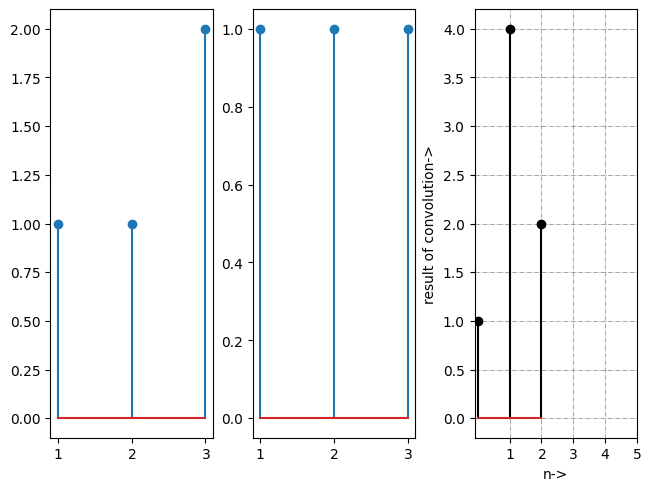
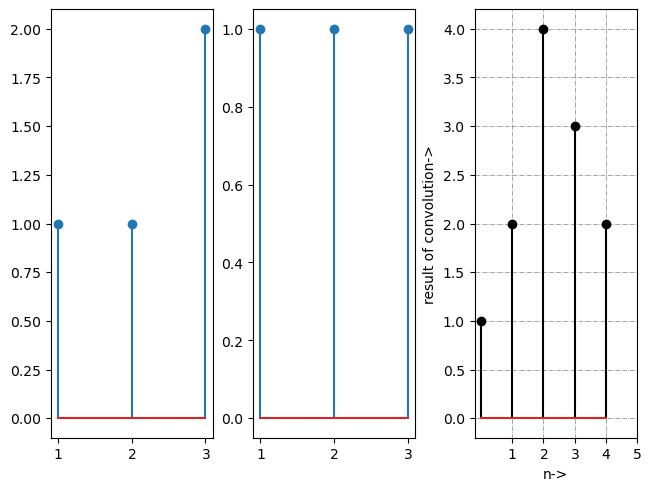
updated

diff --git a/Lab/lab_05/5_1_Convolution/5_1_Convolution.md b/Lab/lab_05/5_1_Convolution/5_1_Convolution.md
@@ -11,9 +11,9 @@ Branch : Electronics and Communication Engineering
 
 Semester : 4
 
-Lab: Signals and Systems (BEC 451)
+Lab: Signals and Systems (BEC 453)
 
-Date of Completion 10/03/2024
+Date of Completion.................
 
 
 ```python
@@ -25,24 +25,24 @@ import matplotlib.pyplot as plt
 
 
 ```python
-x = [1, 2, 3]
-h = [1, 2, 1]
+x = [1, 1, 2]
+h = [1, 1, 1]
 
-size = len(x) + len(h) - 1
+size = len(x)+len(h)-1
 
-x = np.concatenate([x, np.zeros(len(h))])
-h = np.concatenate([h, np.zeros(len(x))])
+xm = np.concatenate([x, np.zeros(len(h))])
+hm = np.concatenate([h, np.zeros(len(x))])
 
 output = np.zeros(size)
 
 for n in range(size):
     for k in range(n + 1):
-        output[n] += x[k] * h[n - k + 1]
+        output[n] += (xm[k] * hm[n - k + 1])
 
 # From Lowest Point of h(n) or x(n) to LowestPoint + ConvolutionSize
 # -1,0,1,2,3,4,5 (Total Point = ConvSize = 7)
-
-t = np.arange(-1, 4)  # Index of Convolution
+print(f'The resultant values are',output)
+t = np.arange(0, 5)  # Index of Convolution
 
 plt.stem(t, output)
 plt.xlabel('n')
@@ -51,9 +51,12 @@ plt.title('Convolution Result')
 plt.show()
 ```
 
+    The resultant values are [1. 2. 3. 2. 0.]
+    
+
 
     
-![png](output_3_0.png)
+![png](output_3_1.png)
     
 
 
@@ -67,9 +70,11 @@ np.convolve(x ,h)
 
 
 
-array([1., 4., 8., 8., 3., 0., 0., 0., 0., 0., 0., 0., 0., 0.])
+    array([1, 2, 4, 3, 2])
 
 
+
+Compare both results and we get that there is some problem in above program. Try to resolve and let me know. Now let us try
 
 ## Using a separate convolution function with strides
 
@@ -113,18 +118,25 @@ ax1.set_xticklabels(('$1$', '$2$', '$3$'))
 ax2.stem(n,w)
 ax2.set_xticks((1,2,3))
 ax2.set_xticklabels(('$1$', '$2$', '$3$'))
-y=conv1D(x,w,2,2)
+#padding size 2
+#strides 1
+y1=conv1D(x,w,2,1)
+
+#padding size 2
+#strides 2
+y2=conv1D(x,w,2,2)
+
 n=[1,2,3,4,5]
-ax3.stem(y,"k")
+ax3.stem(y1,"k")
 ax3.set_xlabel('n->')
 ax3.set_ylabel('result of convolution->')
 ax3.set_xticks((1,2,3,4,5))
 ax3.set_xticklabels(('$1$', '$2$', '$3$', '$4$', '$5$'))
 plt.grid(color='grey', linestyle='-.', linewidth=0.5, axis='both')
-print(f'The resultant values after striare',y)
+print(f'The resultant values after strides=2',y2)
 ```
 
-    The resultant values after striare [1. 4. 2.]
+    The resultant values after strides [1. 4. 2.]
     
 
 
